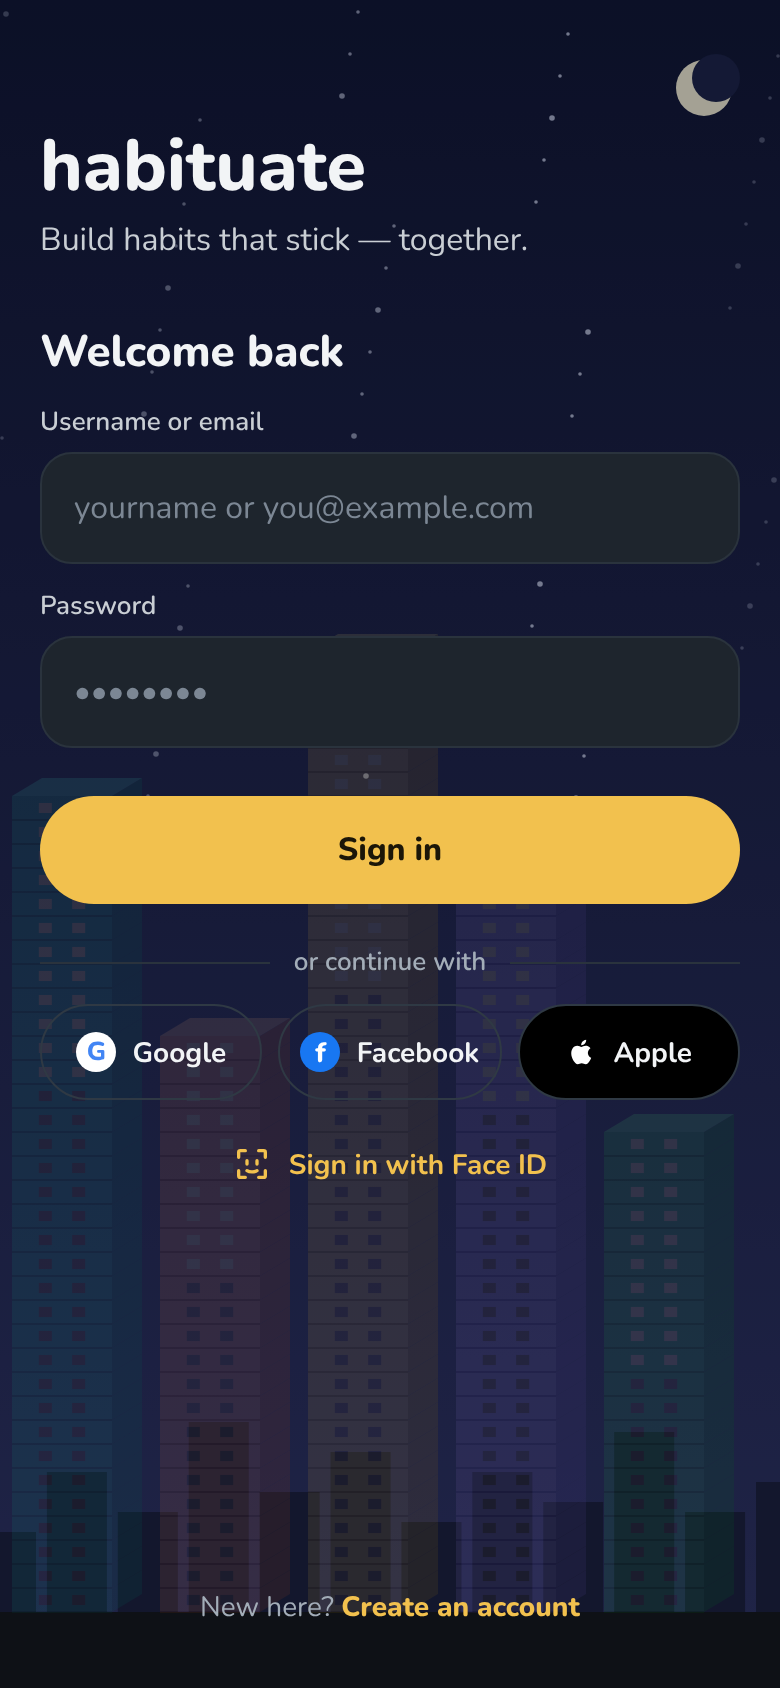
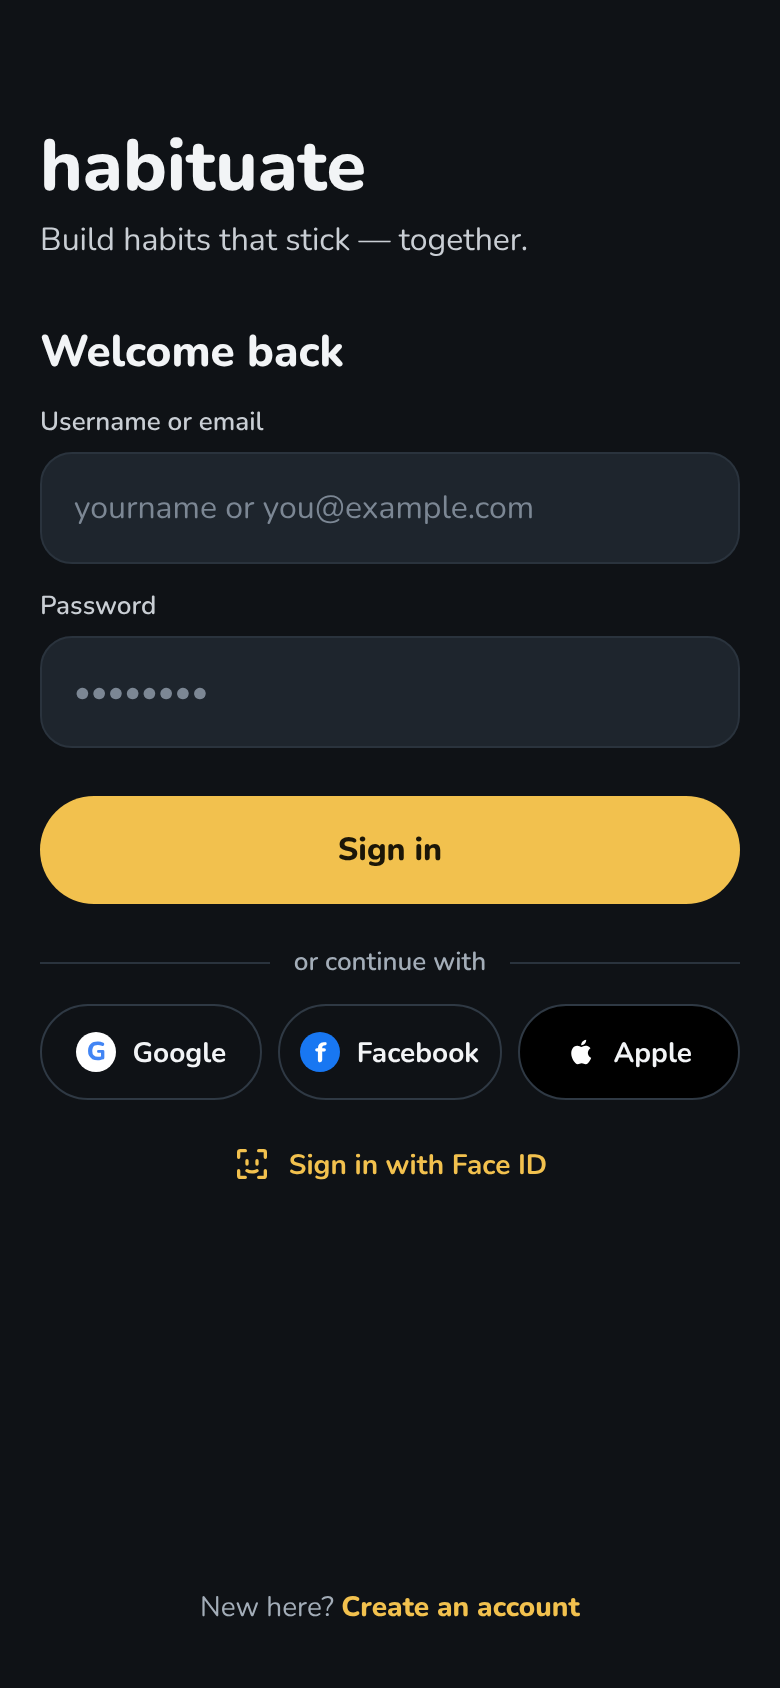
Login and create account v4: no skyline, plain background
Claude-Session: https://claude.ai/code/session_01UvWD32uMFJU1E2B9jDYiLg

diff --git a/design/skyline/source/rd.js b/design/skyline/source/rd.js
@@ -140,7 +140,7 @@ if(S==='rd-li'||S==='rd-su'){const su=S==='rd-su';const HH=su?280:352;
  const face=`<svg width="20" height="20" viewBox="0 0 24 24" fill="none" stroke="#F2C14E" stroke-width="2" stroke-linecap="round"><path d="M4 8V5a1 1 0 0 1 1-1h3M16 4h3a1 1 0 0 1 1 1v3M20 16v3a1 1 0 0 1-1 1h-3M8 20H5a1 1 0 0 1-1-1v-3M9 10v2M15 10v2M9 16c1.5 1 4.5 1 6 0"/></svg>`;
  const sky=skyArt('night',390,HH+30,HH).replace(/<circle[^>]*fill="#F4EFD8"[^>]*\/>/,'<circle cx="352" cy="44" r="14" fill="#F4EFD8"/>').replace(/<circle[^>]*fill="#171E45"[^>]*\/>/,'<circle cx="358" cy="39" r="12" fill="#171E45"/>');
  const TB=su?[['#14B8A6',34,12,6],['#FF8A5C',24,10,80],['#F2C14E',40,14,154],['#A78BFA',30,9,228],['#22C55E',20,10,302]]:[['#14B8A6',34,12,6],['#FF8A5C',24,10,80],['#F2C14E',40,14,154],['#A78BFA',30,9,228],['#22C55E',20,10,302]];
- R.innerHTML=`<div style="position:absolute;inset:0;overflow:hidden;background:#0F1216"><svg width="390" height="844" style="position:absolute;top:0;left:0">${skyArt('night',390,844,806).replace(/<circle[^>]*fill="#F4EFD8"[^>]*\/>/,'<circle cx="352" cy="44" r="14" fill="#F4EFD8"/>').replace(/<circle[^>]*fill="#171E45"[^>]*\/>/,'<circle cx="358" cy="39" r="12" fill="#171E45"/>')}<g opacity=".16">${TB.map(([c,n,l,x])=>tw(c,{x,base:806,w:50,fh:12,dx:15,dy:9,floors:fl(n,l),windows:2,today:false})).join('')}</g><rect width="390" height="844" fill="#0F1216" opacity=".35"/></svg>
+ R.innerHTML=`<div style="position:absolute;inset:0;overflow:hidden;background:#0F1216">
  <div style="position:absolute;left:20px;right:20px;top:64px"><div style="font-size:36px;line-height:40px;font-weight:800">habituate</div><div style="font-size:16px;line-height:24px;color:#C9CED4;margin-top:4px">${su?'Start building — no pressure.':'Build habits that stick — together.'}</div></div>
  <div style="position:absolute;top:150px;left:0;right:0;bottom:0;padding:0 20px 30px;display:flex;flex-direction:column">
  <div style="font-size:22px;line-height:28px;font-weight:800;margin-top:12px">${su?'Create your account':'Welcome back'}</div>

diff --git a/design/skyline/README.md b/design/skyline/README.md
@@ -152,4 +152,4 @@ Same fields, order and actions as today's LoginScreen and SignupScreen; only the
 
 **Login v2 (2026-11-25), full-screen layout (no sheet handle, footer pinned to the bottom):** redrawn to the design system after the owner said v1 was not good. Hero wordmark 36/800 and tagline 16/400 (message), sheet title 22/800, labels 13/600, inputs 56 radius 16, Sign in 54, three equal 48 pills for Google, Facebook and Apple under "or continue with", Face ID as a compact link, footer 14. Towers sit clear of the text. Awaiting the owner's approval.
 
-**Login v3 (2026-11-25):** the skyline is now a faded full-screen background (about 16% opacity behind a night sky), with no hero block and no card; the form sits directly on the screen and the sign-up link is pinned to the bottom. Awaiting the owner's approval.
+**Login v4 (2026-11-25), skyline removed at the owner's choice:** plain dark background, wordmark and tagline at the top, no hero block and no card; the form sits directly on the screen and the sign-up link is pinned to the bottom. Awaiting the owner's approval.
